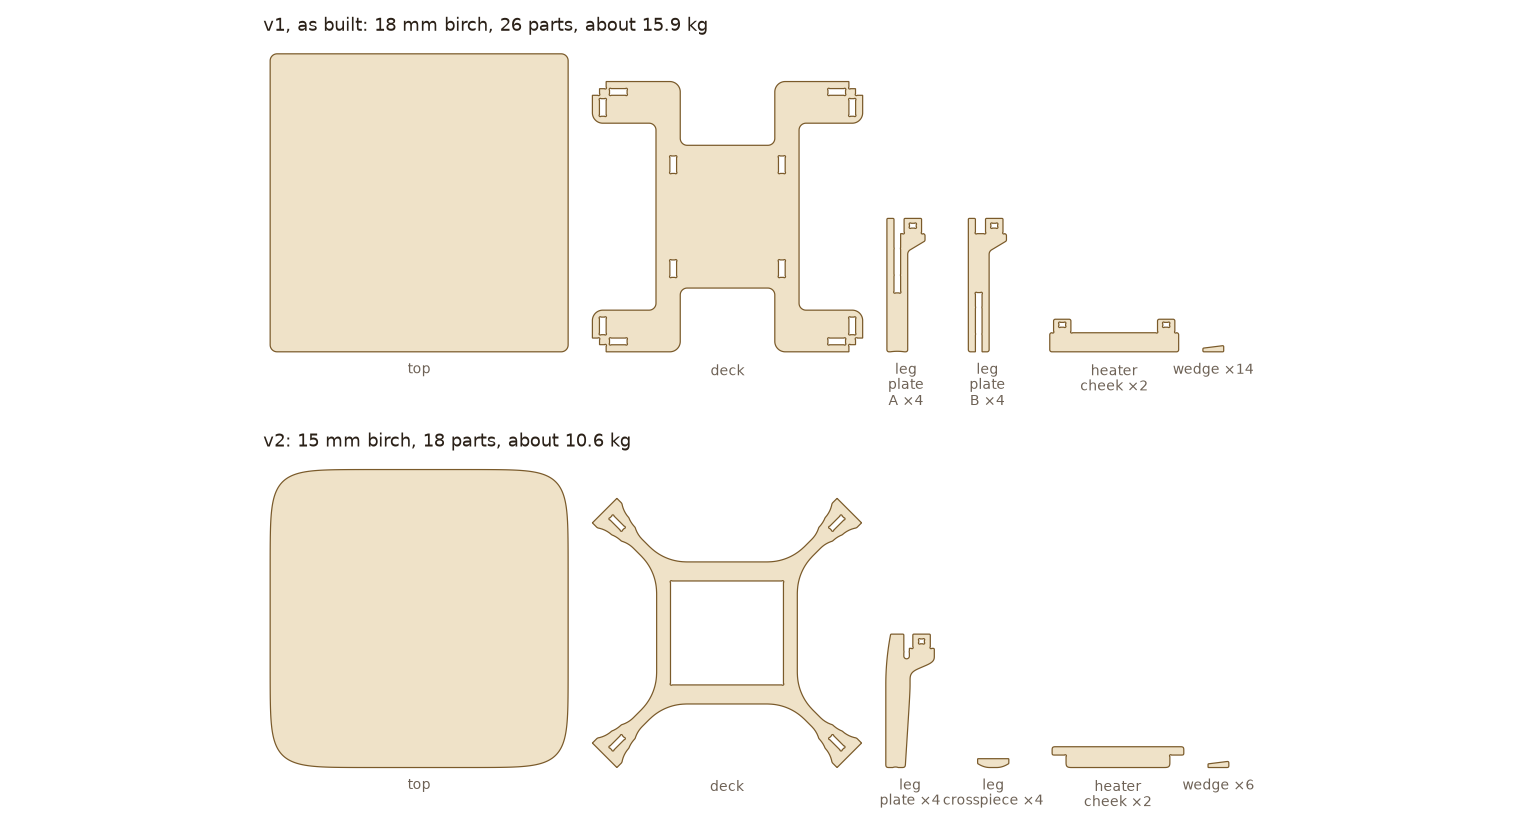
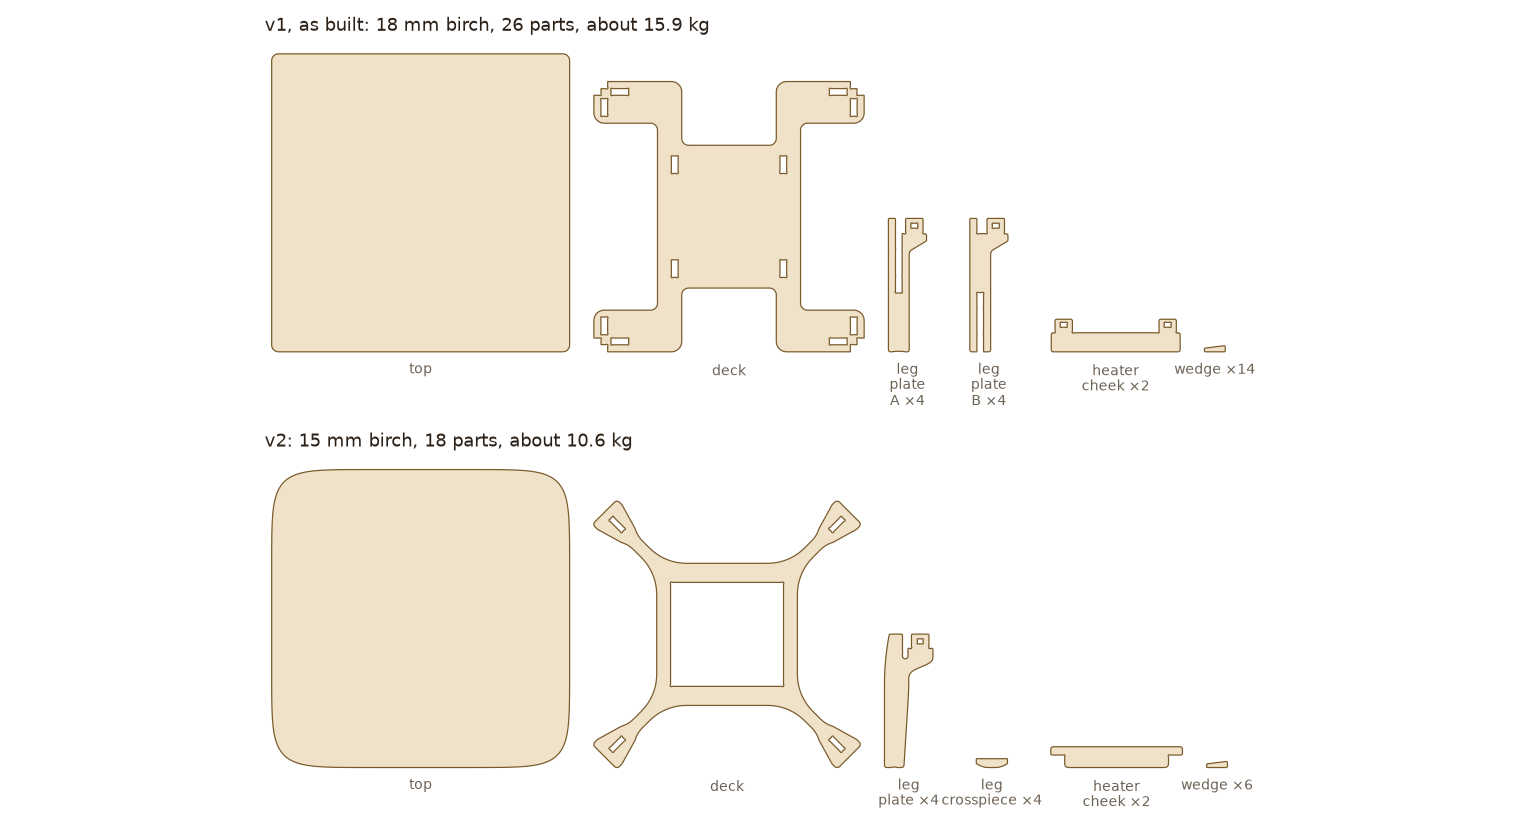
docs: the deck's smooth convex pads and rounded far corners; figures redrawn

diff --git a/PLAN.md b/PLAN.md
@@ -58,7 +58,9 @@ and anything I haven't confirmed yet is marked **TODO-verify**.
   0.2 mm each side), 5 mm past the lying wedge, the plate's top edge and the crosspiece's (owner, 2026-11), so the
   pads are small crosses at the ends of the arms; the deck stops square across the diagonal beside each post. A ring round the **heater well** (326 × 300 mm: the heater plus
   both cheeks) is 40 mm wide beside the cheeks and runs 15 mm past their ears. Four 36 mm arms along the
-  diagonals join them, with R150 fillets at the ring and R80 at the pads (owner 2026-11: smoother, and stronger), and R12 corners outside. 1.33 kg,
+  diagonals join them, with R150 fillets at the ring and R80 at the pads (owner 2026-11: smoother, and stronger), and R12 corners outside.
+  Each corner pad is one convex outline round what needs wood (no wiggles to sand), and its far corners, beside
+  the post, are rounded R10 (owner 2026-11). 1.33 kg,
   against 2.1 kg for the H.
   - The deck holds the futon up across the middle. Its openings are as big as the H's were (188 mm deep
     at mid-side, where the knees go); the extra open area is near the corners.
@@ -141,8 +143,8 @@ three parts with real outlines on 14.1 mm stock:
 - **Top.** The grillage above is confirmed within 10 %: everyday at most 15 %, an adult on an edge 37 %.
 - **X deck.** Under a 300 N hand the deck uses up to about 60 % of its strength at the arm fillets with the
   wedges tight, not the cantilever estimate's 27 % (the 45° arms are softer and weaker than assumed). With
-  slack wedges 97 % (the bigger fillets, owner 2026-11; it was 127 % with R90/R40, 155 % under the "+" legs). Still,
-  keep them tight.
+  slack wedges about 104 % (127 % before the bigger fillets, 155 % under the "+" legs; 90 % with the pads' far corners
+  left square: rounding them shortens what the deck rests on when the wedges are slack). Keep them tight.
 - **Legs.** A 200 N sideways shove at table height, 14.1 mm stock: the worst spot is the head slot's root at
   74-75 % (mesh-stable), the wedge hole about 50 %; the sway is 6.1 mm along x. With the top's worst corner load
   as well (an adult on an edge) it drops to 51 %; that load alone uses 28 %. (The "+" legs' plate A: 80 %, sway 7.1 mm, after it first failed

diff --git a/README.md b/README.md
@@ -467,7 +467,9 @@ the corner, since on the diagonal the squircle top's edge comes closest; each le
 there in one long curve, starting well below the deck, so it reads as part of the leg.
 A last pass shaved and smoothed every curve that didn't have a job: the legs taper in one long line, the
 crosspieces arch underneath, and the deck's arms flare into the ring and the pads with much bigger fillets.
-That made the deck stronger, too: with the wedges slack it now stays under its strength (97 %, was 127 %).
+Each corner pad became one smooth convex outline with rounded far corners: nothing left to fight with
+sandpaper. The bigger fillets made the deck stronger, too: with the wedges slack it now works at about its
+strength (104 %) instead of well past it (127 %).
 
 ![The diagonal legs in the 3-D view, with the top, futon and rug hidden: one plate on each corner's diagonal, a crosspiece under each corner of the X deck, a wedge across each arm](docs/img/v2-diagonal.jpg)
 

diff --git a/docs/fea.md b/docs/fea.md
@@ -159,7 +159,7 @@ senses together takes 0.71 × the push); the top's load goes on its post and ten
 | 200 N push + the top's worst corner load | 51 % (the load from above steadies the joint) | |
 | The top's worst corner load only (an adult on an edge) | 28 % | |
 | 200 N push, nominal 15 mm stock, the crosspiece on the crush ribs | 62 % | |
-| Deck (300 N hand), wedges tight / slack | 60 / 97 % with R150/R80 fillets (R90/R40: 65 / 127; "+" legs: 68 / 155) | |
+| Deck (300 N hand), wedges tight / slack | 60 / 104 % with R150/R80 fillets, convex pads and R10 far corners (square far corners: 60 / 90; R90/R40: 65 / 127; "+" legs: 68 / 155) | |
 | Top, everyday / an adult on an edge | 15 / 37 % ("+": 18 / 42) | |
 
 How the head got its shape: a 36 mm crosspiece put the slot's bottom in the haunch (183 %); 25 mm with the haunch
